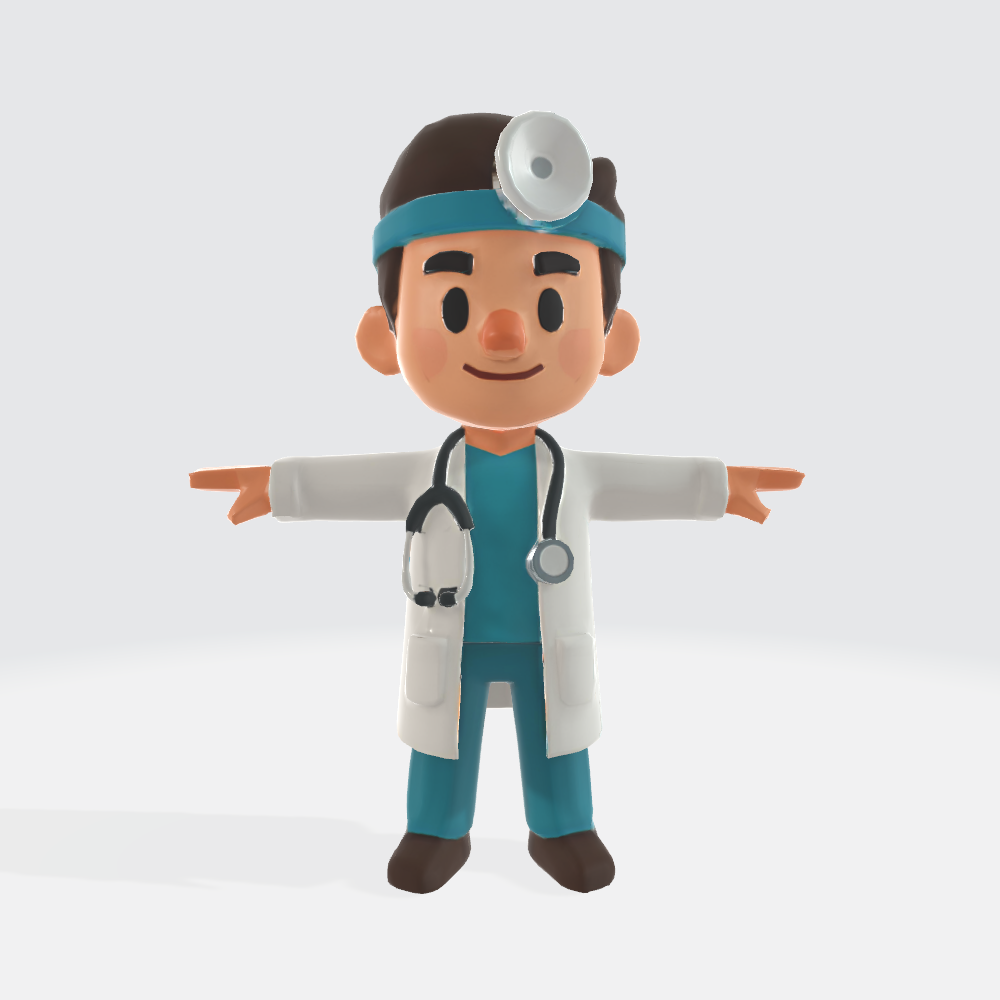
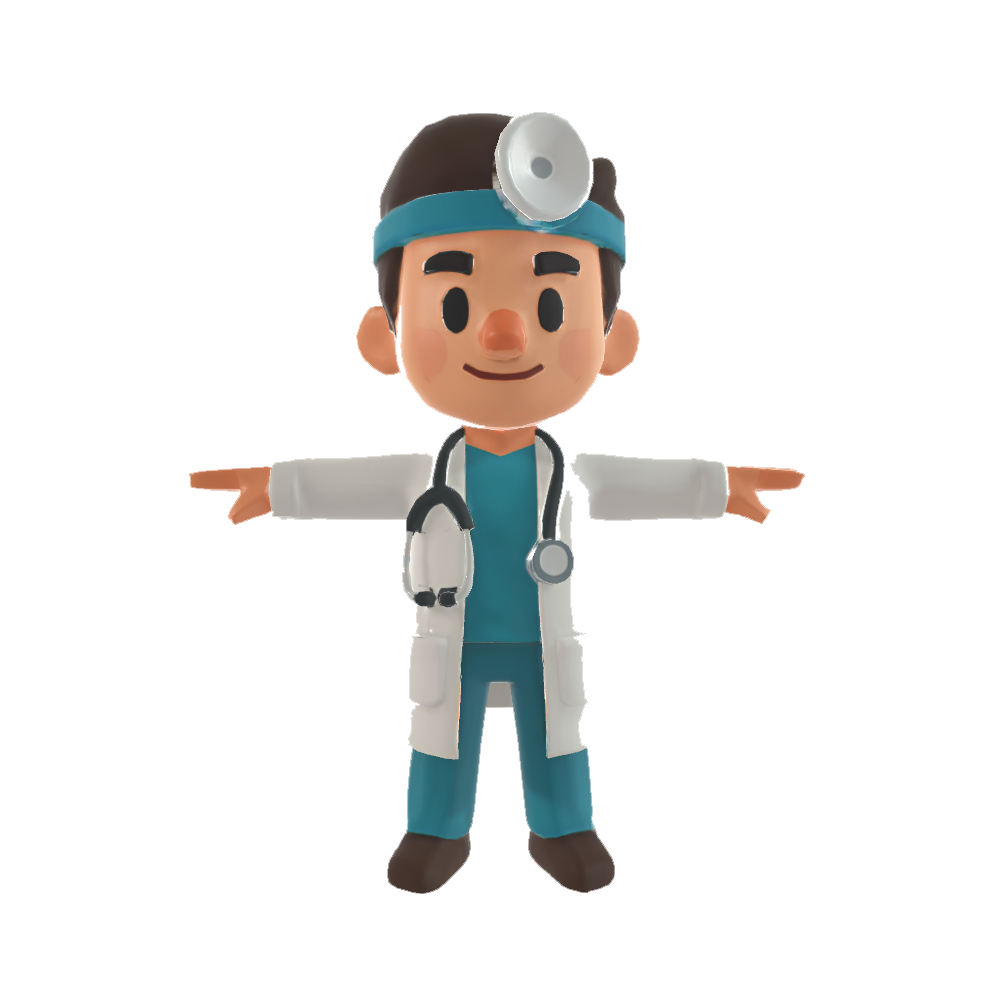
Player-first: music on phone + doctor everywhere + cropped PNG
ROOT-CAUSE FIX FOR "NO MUSIC"
Music wasn't reaching the player phone because the host's AudioContext
runs on the host device, NOT on phones. I'd wired startGameTheme into
every host-*.js countdown handler, but never into the player flow. Kids
playing on their phones heard total silence the entire round while the
teacher's laptop played the theme nicely.

Fix in public/js/player.js:
- countdown handler now calls window.unlockAudio() + startGameTheme(gameType)
  so each player phone starts ITS OWN procedural theme locally.
- Audio also unlocked on the initial PIN-join tap (was only on click
  listeners that didn't fire on iOS Safari without a gesture).
- music-started event listener spawns the same "🎵 Triage ER · 132bpm"
  indicator chip the host has — kid sees on-screen confirmation the
  theme started even if their phone speaker is muted.

YISHENG.PNG CROPPED
Added scripts/bg-removal-yisheng.js — edge-seeded flood-fill that turns
the white-ish background into transparent so the doctor is a clean
cutout instead of a rectangle with a white box behind him. Sampled bg
rgb(241,241,242), 40-unit tolerance, 1px alpha feather. Overwrites
public/assets/yisheng.png in place.

PLAYER UI IS NOW THE COOL ONE
The user observed correctly: nobody watches the host screen during
screenshare — players are looking at their phones. Moved the
"intrusive vocab" pattern from the host's ER ward to the player's
question screen so vocab is in front of the kid every time they pick
an answer:
[…]

diff --git a/public/js/player.js b/public/js/player.js
@@ -255,6 +255,16 @@
   // Unlock audio on first tap
   document.addEventListener('click', () => window.unlockAudio && window.unlockAudio(), { once: true });
   document.addEventListener('touchstart', () => window.unlockAudio && window.unlockAudio(), { once: true });
+  // Show a visible 🎵 chip when the theme starts so the kid (and us) can
+  // tell music actually fired. Auto-hides after ~3.5s.
+  window.addEventListener('music-started', (e) => {
+    const chip = document.getElementById('music-chip');
+    const name = document.getElementById('music-chip-name');
+    if (!chip) return;
+    if (name) name.textContent = ((e.detail && e.detail.gameType) || 'theme') + ' · ' + ((e.detail && e.detail.bpm) || '') + 'bpm';
+    chip.classList.remove('hidden');
+    setTimeout(() => chip.classList.add('hidden'), 3500);
+  });
 
   // Pre-fill PIN + name from URL (e.g., from home page or rematch link)
   const params = new URLSearchParams(location.search);
@@ -281,6 +291,11 @@
       $('join-error').textContent = 'Enter PIN and name';
       return;
     }
+    // Unlock audio at the FIRST user tap (join) so iOS Safari has its
+    // AudioContext primed long before music tries to start. Otherwise the
+    // ctx is created lazily on the much-later countdown event when the
+    // gesture is already gone.
+    if (window.unlockAudio) window.unlockAudio();
     socket.emit('player:join', { pin: p, name, avatar: getMyAvatar() }, (resp) => {
       if (!resp.ok) {
         $('join-error').textContent = resp.error || 'Could not join';
@@ -292,6 +307,12 @@
       myName = name;
       myPlayerId = resp.playerId;
       gameType = resp.gameType || 'mochi-mash';
+      // Tag <body> with the gameType so per-game UI (e.g. triage-only blocks)
+      // becomes visible. Removing all gametype-* classes first ensures the
+      // tag is exclusive — no leakage when a player rejoins a different round.
+      document.body.className = (document.body.className || '')
+        .split(/\s+/).filter((c) => !c.startsWith('gametype-')).join(' ');
+      document.body.classList.add('gametype-' + gameType);
       // Remember this game for the Rematch button on the home page
       try {
         localStorage.setItem('dralyLastJoin', JSON.stringify({ pin: p, name, ts: Date.now() }));
@@ -975,7 +996,16 @@
   socket.on('countdown', () => {
     stopLobbyFlappy();
     showScreen('countdown');
-    MochiSounds.startMusic();
+    // === CRITICAL: each player phone runs its own audio. The host's music
+    // never reaches the player's device — they have to start it locally.
+    // Without this, kids playing on phones hear no music while the teacher's
+    // laptop plays the theme nicely. ===
+    if (window.unlockAudio) window.unlockAudio();
+    if (MochiSounds.startGameTheme) {
+      MochiSounds.startGameTheme(gameType);
+    } else {
+      MochiSounds.startMusic();
+    }
     // (Random Dralingo pop-ins were here — disabled per user feedback;
     // they were too intrusive during active gameplay.)
     if (Dralingo && Dralingo.stopRandom) Dralingo.stopRandom();
@@ -983,6 +1013,11 @@
     // question/result screens with peeks + groans (separate from the in-sprint
     // jumpscares — this one runs the WHOLE game)
     if (gameType === 'zombie') startZombieAmbience();
+    // === TRIAGE: omnipresent floating-vocab background on the player phone.
+    // This is the "intrusive vocab" the user asked for, on the screen kids
+    // actually look at. Spawns a new pinyin tile every ~2.4s for the entire
+    // round; tiles drift up the screen and fade. ===
+    if (gameType === 'triage') startTriageVocabBg();
     // 6-7 SWING engagement layer — ambient peeks + periodic dance moments
     if (gameType === 'sixseven') {
       if (window.unlockAudio) window.unlockAudio();
@@ -1397,6 +1432,43 @@
     // Seed one immediately
     setTimeout(cprSpawnVocabTap, 300);
   }
+  // === Player-side TRIAGE BG floating vocab ===
+  // Tiles drift up behind the question/result/picker screens for the entire
+  // active round. Capped at MAX_FLOATERS so the DOM stays cheap.
+  let triBgTimer = null;
+  function startTriageVocabBg() {
+    if (triBgTimer) clearInterval(triBgTimer);
+    // Seed a few staggered tiles
+    for (let i = 0; i < 2; i++) setTimeout(spawnTriBgFloater, i * 1100);
+    // Throttle on low-end devices
+    const lowEnd = (navigator.hardwareConcurrency || 4) < 4;
+    triBgTimer = setInterval(spawnTriBgFloater, lowEnd ? 3000 : 2400);
+  }
+  function stopTriageVocabBg() {
+    if (triBgTimer) clearInterval(triBgTimer);
+    triBgTimer = null;
+    const layer = document.getElementById('tri-q-float-bg');
+    if (layer) layer.innerHTML = '';
+  }
+  function spawnTriBgFloater() {
+    const layer = document.getElementById('tri-q-float-bg');
+    if (!layer) return;
+    // Hard cap concurrent floaters
+    if (layer.children.length >= 4) return;
+    const v = TRI_VOCAB_POOL[Math.floor(Math.random() * TRI_VOCAB_POOL.length)];
+    const el = document.createElement('div');
+    el.className = 'tri-q-floater' + (v.key ? ' key' : '');
+    el.innerHTML = `<span>${v.icon || ''} ${v.pinyin}</span><span class="es">${v.es}</span>`;
+    // Random horizontal position avoiding the very center (where the
+    // question card sits) — bias to the edges.
+    const sideLeft = Math.random() < 0.5;
+    el.style.left = sideLeft
+      ? (3 + Math.random() * 22) + '%'
+      : (75 + Math.random() * 22) + '%';
+    layer.appendChild(el);
+    setTimeout(() => el.remove(), 9200);
+  }
+
   // Vocabulary pool used by the CPR tap-bonus + picker floats
   const TRI_VOCAB_POOL = [
     { pinyin: 'yīshēng',  es: 'doctor',   icon: '🩺', key: true,  bonus: 1 },
@@ -5162,10 +5234,12 @@
 
   socket.on('game-end', (data) => {
     MochiSounds.stopMusic();
+    if (MochiSounds.stopGameTheme) MochiSounds.stopGameTheme();
     Dralingo.stopRandom();
     stopZombieAmbience();
     stopSixSevenAmbience();
     stopPlayerJumpscareLoop();
+    stopTriageVocabBg();
     document.body.classList.remove('sixseven-active');
     stopLobbyFlappy();
     if (mashTimerInterval) clearInterval(mashTimerInterval);

diff --git a/scripts/bg-removal-yisheng.js b/scripts/bg-removal-yisheng.js
@@ -1,0 +1,105 @@
+// Background-removal for the doctor (yisheng.png) — strips the white-ish
+// background so the character is a clean cutout, not a rectangle with a
+// white box behind him. Edge-seeded flood fill targets white pixels and
+// stops at the doctor's outline.
+//
+// Run with: node scripts/bg-removal-yisheng.js
+
+'use strict';
+const path = require('path');
+const { Jimp } = require('jimp');
+
+const IN_PATH  = path.join(__dirname, '..', 'public', 'assets', 'yisheng.png');
+const OUT_PATH = path.join(__dirname, '..', 'public', 'assets', 'yisheng.png'); // overwrite
+
+const TOLERANCE = 40;
+const EDGE_FEATHER = 1;
+
+(async () => {
+  console.log('[bg-removal] Loading', IN_PATH);
+  const img = await Jimp.read(IN_PATH);
+  const w = img.bitmap.width;
+  const h = img.bitmap.height;
+  const data = img.bitmap.data;
+
+  // Sample background color from the 4 corners; for a doctor PNG this should
+  // be white-ish (probably pure white from a generated image).
+  const corners = [
+    [0, 0], [w - 1, 0], [0, h - 1], [w - 1, h - 1],
+  ];
+  const rs = [], gs = [], bs = [];
+  corners.forEach(([x, y]) => {
+    const i = (y * w + x) * 4;
+    rs.push(data[i]); gs.push(data[i + 1]); bs.push(data[i + 2]);
+  });
+  rs.sort((a, b) => a - b); gs.sort((a, b) => a - b); bs.sort((a, b) => a - b);
+  const bgR = rs[2], bgG = gs[2], bgB = bs[2];
+  console.log(`[bg-removal] Background sampled as rgb(${bgR}, ${bgG}, ${bgB})`);
+
+  function near(idx) {
+    const dr = data[idx] - bgR;
+    const dg = data[idx + 1] - bgG;
+    const db = data[idx + 2] - bgB;
+    return (dr * dr + dg * dg + db * db) < TOLERANCE * TOLERANCE * 3;
+  }
+
+  // Mark pixels as background via edge-seeded flood-fill (BFS with a queue).
+  const isBg = new Uint8Array(w * h);
+  const queue = [];
+
+  // Seed: every edge pixel that LOOKS like background
+  for (let x = 0; x < w; x++) {
+    for (const y of [0, h - 1]) {
+      const i = (y * w + x) * 4;
+      if (near(i)) { isBg[y * w + x] = 1; queue.push([x, y]); }
+    }
+  }
+  for (let y = 0; y < h; y++) {
+    for (const x of [0, w - 1]) {
+      const i = (y * w + x) * 4;
+      if (near(i)) { isBg[y * w + x] = 1; queue.push([x, y]); }
+    }
+  }
+
+  // BFS — flood inward
+  while (queue.length) {
+    const [x, y] = queue.shift();
+    [[x + 1, y], [x - 1, y], [x, y + 1], [x, y - 1]].forEach(([nx, ny]) => {
+      if (nx < 0 || nx >= w || ny < 0 || ny >= h) return;
+      const ni = ny * w + nx;
+      if (isBg[ni]) return;
+      const di = ni * 4;
+      if (near(di)) {
+        isBg[ni] = 1;
+        queue.push([nx, ny]);
+      }
+    });
+  }
+
+  // Apply: alpha = 0 for background, plus a 1-px feather for soft edges.
+  // Feather: any non-bg pixel adjacent to a bg pixel gets alpha halved.
+  for (let y = 0; y < h; y++) {
+    for (let x = 0; x < w; x++) {
+      const idx = y * w + x;
+      const di = idx * 4;
+      if (isBg[idx]) {
+        data[di + 3] = 0;
+      } else if (EDGE_FEATHER > 0) {
+        let edge = false;
+        for (let dy = -EDGE_FEATHER; dy <= EDGE_FEATHER && !edge; dy++) {
+          for (let dx = -EDGE_FEATHER; dx <= EDGE_FEATHER && !edge; dx++) {
+            if (dx === 0 && dy === 0) continue;
+            const nx = x + dx, ny = y + dy;
+            if (nx < 0 || nx >= w || ny < 0 || ny >= h) continue;
+            if (isBg[ny * w + nx]) edge = true;
+          }
+        }
+        if (edge) data[di + 3] = Math.round(data[di + 3] * 0.6);
+      }
+    }
+  }
+
+  console.log('[bg-removal] Writing', OUT_PATH);
+  await img.write(OUT_PATH);
+  console.log('[bg-removal] Done.');
+})().catch((e) => { console.error(e); process.exit(1); });

diff --git a/public/css/triage.css b/public/css/triage.css
@@ -34,6 +34,102 @@ body.triage-bg .market-banner {
   letter-spacing: 0.08em;
 }
 
+/* === PLAYER QUESTION SCREEN: triage-only vocab strip + bg floats ===
+   Hidden by default; visible only when <body class="gametype-triage">.
+   Player.js toggles that class when gameType is detected as triage. */
+.triage-only { display: none; }
+body.gametype-triage .triage-only { display: block; }
+
+.tri-q-vocab {
+  display: flex !important;
+  align-items: center;
+  gap: 12px;
+  margin: 8px 0 14px;
+  padding: 10px 14px;
+  border-radius: 14px;
+  background: linear-gradient(90deg, rgba(45, 212, 191, 0.18), rgba(255, 90, 102, 0.16));
+  border: 2px solid #5be8d1;
+  box-shadow: 0 0 18px rgba(45, 212, 191, 0.30);
+  position: relative;
+  z-index: 5;
+}
+.tri-q-doctor {
+  width: 84px; height: 84px;
+  object-fit: contain;
+  filter: drop-shadow(0 4px 12px rgba(45, 212, 191, 0.6));
+  animation: tri-doctor-bob 2.2s ease-in-out infinite;
+  flex-shrink: 0;
+}
+.tri-q-sentence { flex: 1; text-align: left; }
+.tri-q-pinyin {
+  font-size: 1.15rem;
+  font-weight: 900;
+  letter-spacing: 0.02em;
+  color: #e7faff;
+  text-shadow: 0 0 10px rgba(125, 220, 255, 0.5);
+  line-height: 1.2;
+}
+.tri-q-pinyin strong {
+  color: #ffe66a;
+  text-shadow: 0 0 14px #ffe66a;
+  border-bottom: 2px dashed #ffe66a;
+  font-size: 1.4rem;
+}
+.tri-q-es {
+  font-size: 0.85rem;
+  font-style: italic;
+  color: rgba(220, 235, 245, 0.78);
+  margin-top: 2px;
+}
+
+/* Floating background vocab tiles on the question screen — drift up
+   continuously behind the question card so the vocab is omnipresent. */
+.tri-q-float-bg {
+  position: fixed !important;
+  inset: 0;
+  pointer-events: none;
+  overflow: hidden;
+  z-index: 1;
+}
+body.gametype-triage .tri-q-float-bg { display: block; }
+.tri-q-float-bg .tri-q-floater {
+  position: absolute;
+  bottom: -10%;
+  background: rgba(8, 22, 36, 0.55);
+  border: 2px solid rgba(45, 212, 191, 0.6);
+  border-radius: 10px;
+  padding: 6px 12px;
+  color: #5be8d1;
+  font-weight: 900;
+  font-size: 1rem;
+  display: flex; flex-direction: column;
+  align-items: center; gap: 0;
+  box-shadow: 0 0 14px rgba(45, 212, 191, 0.4);
+  will-change: transform, opacity;
+  transform: translateZ(0);
+  animation: tri-q-float-up 9s linear forwards;
+  opacity: 0;
+}
+.tri-q-floater .es {
+  font-size: 0.7rem;
+  font-style: italic;
+  color: rgba(220, 235, 245, 0.85);
+  font-weight: 700;
+}
+.tri-q-floater.key {
+  background: rgba(80, 30, 30, 0.78);
+  border-color: #ffe66a;
+  color: #ffe66a;
+  box-shadow: 0 0 22px rgba(255, 230, 106, 0.7);
+}
+@keyframes tri-q-float-up {
+  0%   { transform: translateY(0)     scale(0.7) rotate(-3deg); opacity: 0; }
+  10%  { opacity: 0.75; }
+  50%  { transform: translateY(-50vh) scale(1) rotate(2deg);    opacity: 0.85; }
+  90%  { opacity: 0.7; }
+  100% { transform: translateY(-110vh) scale(0.85) rotate(-2deg); opacity: 0; }
+}
+
 /* === Visible music indicator — proof that the theme is playing ===
    Shown in the bottom-left for ~3.5s when startGameTheme fires. Lets the
    host (and us) confirm the music engine actually started even on devices

diff --git a/public/player.html b/public/player.html
@@ -18,13 +18,15 @@
   <link rel="stylesheet" href="/css/sixseven.css?v=20260520c">
   <link rel="stylesheet" href="/css/zombie.css?v=20260517b">
   <link rel="stylesheet" href="/css/family.css?v=20260520c">
-  <link rel="stylesheet" href="/css/triage.css?v=20260524a">
+  <link rel="stylesheet" href="/css/triage.css?v=20260524b">
 </head>
 <body>
   <div class="lantern l1"></div>
   <div class="lantern l2"></div>
 
   <button class="muted-toggle" id="mute-btn">🔊 On</button>
+  <!-- Music indicator pops bottom-left for ~3.5s when the theme starts -->
+  <div class="music-chip hidden" id="music-chip">🎵 <span id="music-chip-name">…</span></div>
 
   <!-- Zombie-game ambience layer: hovers above EVERY screen during zombie mode.
        Spooky peeks, edge glows, occasional shadow hands. Hidden by default. -->
@@ -87,6 +89,18 @@
       <span id="player-name-tag">You</span>
       <span>Score: <span id="player-score">0</span></span>
     </div>
+    <!-- TRIAGE-ONLY: doctor + vocab banner ABOVE the question. Only visible
+         when body has .gametype-triage. Hidden on every other game. -->
+    <div class="tri-q-vocab triage-only">
+      <img class="tri-q-doctor" src="/assets/yisheng.png" alt="yīshēng"
+           onerror="this.style.display='none'">
+      <div class="tri-q-sentence">
+        <div class="tri-q-pinyin">Yīshēng zài <strong>yīyuàn</strong> 🏥 gōngzuò</div>
+        <div class="tri-q-es">El doctor trabaja en el hospital</div>
+      </div>
+    </div>
+    <!-- TRIAGE-ONLY: floating background vocab tiles, drifting up the screen -->
+    <div class="tri-q-float-bg triage-only" id="tri-q-float-bg"></div>
     <div class="question-image-wrap" id="question-image-wrap">
       <div class="img-loading">🐉</div>
       <img id="question-image" alt="" style="display:none;">
@@ -583,10 +597,10 @@
   </div>
 
   <script src="/socket.io/socket.io.js"></script>
-  <script src="/js/sounds.js?v=20260524a"></script>
+  <script src="/js/sounds.js?v=20260524b"></script>
   <script src="/js/enter.js"></script>
   <script src="/js/dralingo.js"></script>
   <script src="/js/rewards.js?v=20260520c"></script>
-  <script src="/js/player.js?v=20260524a"></script>
+  <script src="/js/player.js?v=20260524b"></script>
 </body>
 </html>
